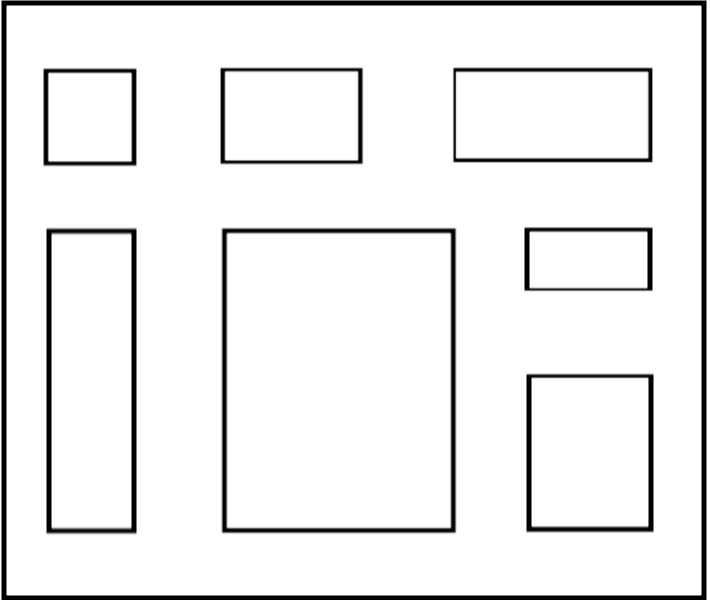
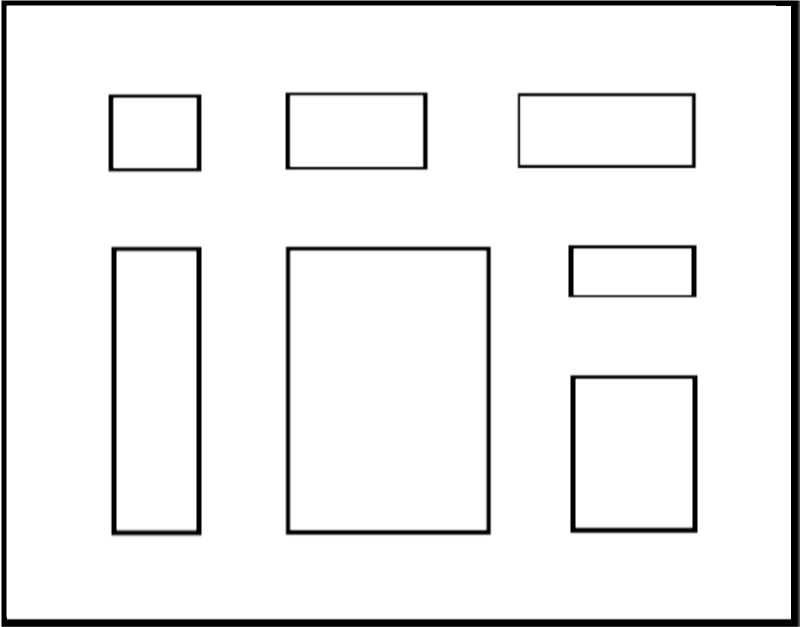
UI-V2 Validación de espacios

diff --git a/GrafosActividad/src/Vista/VistaPrincipal.java b/GrafosActividad/src/Vista/VistaPrincipal.java
@@ -9,6 +9,7 @@ import javax.swing.ImageIcon;
 import javax.swing.JButton;
 import javax.swing.JOptionPane;
 
+
 public class VistaPrincipal extends javax.swing.JFrame {
 
     ArrayList<JButton> botones = new ArrayList<>();
@@ -22,7 +23,7 @@ public class VistaPrincipal extends javax.swing.JFrame {
     }
 
     private void agregarBoton(double x, double y) {
-
+        
         String name = JOptionPane.showInputDialog("Digite el nombre de la ubicación");
         JButton boton = new JButton();
         boton.setName(name);
@@ -49,6 +50,13 @@ public class VistaPrincipal extends javax.swing.JFrame {
             }
 
         };
+        label1 = new javax.swing.JLabel();
+        label2 = new javax.swing.JLabel();
+        label3 = new javax.swing.JLabel();
+        label4 = new javax.swing.JLabel();
+        label5 = new javax.swing.JLabel();
+        jLabel2 = new javax.swing.JLabel();
+        jLabel3 = new javax.swing.JLabel();
         jLabel1 = new javax.swing.JLabel();
 
         setDefaultCloseOperation(javax.swing.WindowConstants.EXIT_ON_CLOSE);
@@ -61,15 +69,87 @@ public class VistaPrincipal extends javax.swing.JFrame {
             }
         });
 
+        label1.addMouseListener(new java.awt.event.MouseAdapter() {
+            public void mousePressed(java.awt.event.MouseEvent evt) {
+                label1MousePressed(evt);
+            }
+        });
+
+        label2.addMouseListener(new java.awt.event.MouseAdapter() {
+            public void mousePressed(java.awt.event.MouseEvent evt) {
+                label2MousePressed(evt);
+            }
+        });
+
+        label3.addMouseListener(new java.awt.event.MouseAdapter() {
+            public void mousePressed(java.awt.event.MouseEvent evt) {
+                label3MousePressed(evt);
+            }
+        });
+
+        label4.addMouseListener(new java.awt.event.MouseAdapter() {
+            public void mousePressed(java.awt.event.MouseEvent evt) {
+                label4MousePressed(evt);
+            }
+        });
+
+        label5.addMouseListener(new java.awt.event.MouseAdapter() {
+            public void mousePressed(java.awt.event.MouseEvent evt) {
+                label5MousePressed(evt);
+            }
+        });
+
+        jLabel2.addMouseListener(new java.awt.event.MouseAdapter() {
+            public void mousePressed(java.awt.event.MouseEvent evt) {
+                jLabel2MousePressed(evt);
+            }
+        });
+
+        jLabel3.addMouseListener(new java.awt.event.MouseAdapter() {
+            public void mousePressed(java.awt.event.MouseEvent evt) {
+                jLabel3MousePressed(evt);
+            }
+        });
+
         javax.swing.GroupLayout panel1Layout = new javax.swing.GroupLayout(panel1);
         panel1.setLayout(panel1Layout);
         panel1Layout.setHorizontalGroup(
             panel1Layout.createParallelGroup(javax.swing.GroupLayout.Alignment.LEADING)
-            .addGap(0, 716, Short.MAX_VALUE)
+            .addGroup(panel1Layout.createSequentialGroup()
+                .addGap(86, 86, 86)
+                .addGroup(panel1Layout.createParallelGroup(javax.swing.GroupLayout.Alignment.LEADING, false)
+                    .addComponent(label4, javax.swing.GroupLayout.DEFAULT_SIZE, 103, Short.MAX_VALUE)
+                    .addComponent(label1, javax.swing.GroupLayout.DEFAULT_SIZE, javax.swing.GroupLayout.DEFAULT_SIZE, Short.MAX_VALUE))
+                .addGap(64, 64, 64)
+                .addGroup(panel1Layout.createParallelGroup(javax.swing.GroupLayout.Alignment.LEADING)
+                    .addGroup(panel1Layout.createSequentialGroup()
+                        .addComponent(label2, javax.swing.GroupLayout.PREFERRED_SIZE, 132, javax.swing.GroupLayout.PREFERRED_SIZE)
+                        .addGap(78, 78, 78)
+                        .addComponent(label3, javax.swing.GroupLayout.PREFERRED_SIZE, 163, javax.swing.GroupLayout.PREFERRED_SIZE))
+                    .addGroup(javax.swing.GroupLayout.Alignment.TRAILING, panel1Layout.createSequentialGroup()
+                        .addComponent(label5, javax.swing.GroupLayout.PREFERRED_SIZE, 194, javax.swing.GroupLayout.PREFERRED_SIZE)
+                        .addGap(61, 61, 61)
+                        .addGroup(panel1Layout.createParallelGroup(javax.swing.GroupLayout.Alignment.LEADING)
+                            .addComponent(jLabel2, javax.swing.GroupLayout.PREFERRED_SIZE, 120, javax.swing.GroupLayout.PREFERRED_SIZE)
+                            .addComponent(jLabel3, javax.swing.GroupLayout.PREFERRED_SIZE, 120, javax.swing.GroupLayout.PREFERRED_SIZE)))))
         );
         panel1Layout.setVerticalGroup(
             panel1Layout.createParallelGroup(javax.swing.GroupLayout.Alignment.LEADING)
-            .addGap(0, 556, Short.MAX_VALUE)
+            .addGroup(panel1Layout.createSequentialGroup()
+                .addGap(71, 71, 71)
+                .addGroup(panel1Layout.createParallelGroup(javax.swing.GroupLayout.Alignment.LEADING)
+                    .addComponent(label1, javax.swing.GroupLayout.PREFERRED_SIZE, 84, javax.swing.GroupLayout.PREFERRED_SIZE)
+                    .addComponent(label2, javax.swing.GroupLayout.PREFERRED_SIZE, 84, javax.swing.GroupLayout.PREFERRED_SIZE)
+                    .addComponent(label3, javax.swing.GroupLayout.PREFERRED_SIZE, 84, javax.swing.GroupLayout.PREFERRED_SIZE))
+                .addGap(61, 61, 61)
+                .addGroup(panel1Layout.createParallelGroup(javax.swing.GroupLayout.Alignment.LEADING)
+                    .addComponent(label4, javax.swing.GroupLayout.PREFERRED_SIZE, 263, javax.swing.GroupLayout.PREFERRED_SIZE)
+                    .addGroup(panel1Layout.createSequentialGroup()
+                        .addGap(2, 2, 2)
+                        .addComponent(jLabel2, javax.swing.GroupLayout.PREFERRED_SIZE, 50, javax.swing.GroupLayout.PREFERRED_SIZE)
+                        .addGap(60, 60, 60)
+                        .addComponent(jLabel3, javax.swing.GroupLayout.PREFERRED_SIZE, 150, javax.swing.GroupLayout.PREFERRED_SIZE))
+                    .addComponent(label5, javax.swing.GroupLayout.PREFERRED_SIZE, 259, javax.swing.GroupLayout.PREFERRED_SIZE)))
         );
 
         getContentPane().add(panel1, new org.netbeans.lib.awtextra.AbsoluteConstraints(0, 70, 720, 560));
@@ -83,6 +163,7 @@ public class VistaPrincipal extends javax.swing.JFrame {
     }// </editor-fold>//GEN-END:initComponents
 
     private void panel1MousePressed(java.awt.event.MouseEvent evt) {//GEN-FIRST:event_panel1MousePressed
+                  
         boolean estado = false;
         Point punto = MouseInfo.getPointerInfo().getLocation();
         //Equilibrador en X ES 272 y en Y 172 tamaño del panel 720X560
@@ -91,12 +172,12 @@ public class VistaPrincipal extends javax.swing.JFrame {
         if (botones.isEmpty()) {
             agregarBoton(punto.getX(), punto.getY());
         } else {
-            //continuar
+            
             for (JButton boton : botones) {
                 int valorx = (x-boton.getX());
                 int valory = (y-boton.getY()); 
                 //RANGOS DE 0 Y 40 TANTO EN X y EN Y PARA CADA BOTON
-                if (valorx < 70 & (valorx *-1 < 30)) {
+                if ((valorx < 70 & (valorx *-1 < 30)) &(valory < 70 & (valory *-1 < 30))) {
                     estado = true;
                     break;
                 }
@@ -110,6 +191,34 @@ public class VistaPrincipal extends javax.swing.JFrame {
         }
 
     }//GEN-LAST:event_panel1MousePressed
+
+    private void label1MousePressed(java.awt.event.MouseEvent evt) {//GEN-FIRST:event_label1MousePressed
+           JOptionPane.showMessageDialog(null,"Espacio prohibido");
+    }//GEN-LAST:event_label1MousePressed
+
+    private void label3MousePressed(java.awt.event.MouseEvent evt) {//GEN-FIRST:event_label3MousePressed
+           JOptionPane.showMessageDialog(null,"Espacio prohibido");
+    }//GEN-LAST:event_label3MousePressed
+
+    private void label2MousePressed(java.awt.event.MouseEvent evt) {//GEN-FIRST:event_label2MousePressed
+           JOptionPane.showMessageDialog(null,"Espacio prohibido");
+    }//GEN-LAST:event_label2MousePressed
+
+    private void label4MousePressed(java.awt.event.MouseEvent evt) {//GEN-FIRST:event_label4MousePressed
+           JOptionPane.showMessageDialog(null,"Espacio prohibido");
+    }//GEN-LAST:event_label4MousePressed
+
+    private void label5MousePressed(java.awt.event.MouseEvent evt) {//GEN-FIRST:event_label5MousePressed
+           JOptionPane.showMessageDialog(null,"Espacio prohibido");
+    }//GEN-LAST:event_label5MousePressed
+
+    private void jLabel2MousePressed(java.awt.event.MouseEvent evt) {//GEN-FIRST:event_jLabel2MousePressed
+           JOptionPane.showMessageDialog(null,"Espacio prohibido");
+    }//GEN-LAST:event_jLabel2MousePressed
+
+    private void jLabel3MousePressed(java.awt.event.MouseEvent evt) {//GEN-FIRST:event_jLabel3MousePressed
+           JOptionPane.showMessageDialog(null,"Espacio prohibido");
+    }//GEN-LAST:event_jLabel3MousePressed
 
     public static void main(String args[]) {
         /* Set the Nimbus look and feel */
@@ -145,6 +254,13 @@ public class VistaPrincipal extends javax.swing.JFrame {
 
     // Variables declaration - do not modify//GEN-BEGIN:variables
     private javax.swing.JLabel jLabel1;
+    private javax.swing.JLabel jLabel2;
+    private javax.swing.JLabel jLabel3;
+    private javax.swing.JLabel label1;
+    private javax.swing.JLabel label2;
+    private javax.swing.JLabel label3;
+    private javax.swing.JLabel label4;
+    private javax.swing.JLabel label5;
     private javax.swing.JPanel panel1;
     // End of variables declaration//GEN-END:variables
 }
